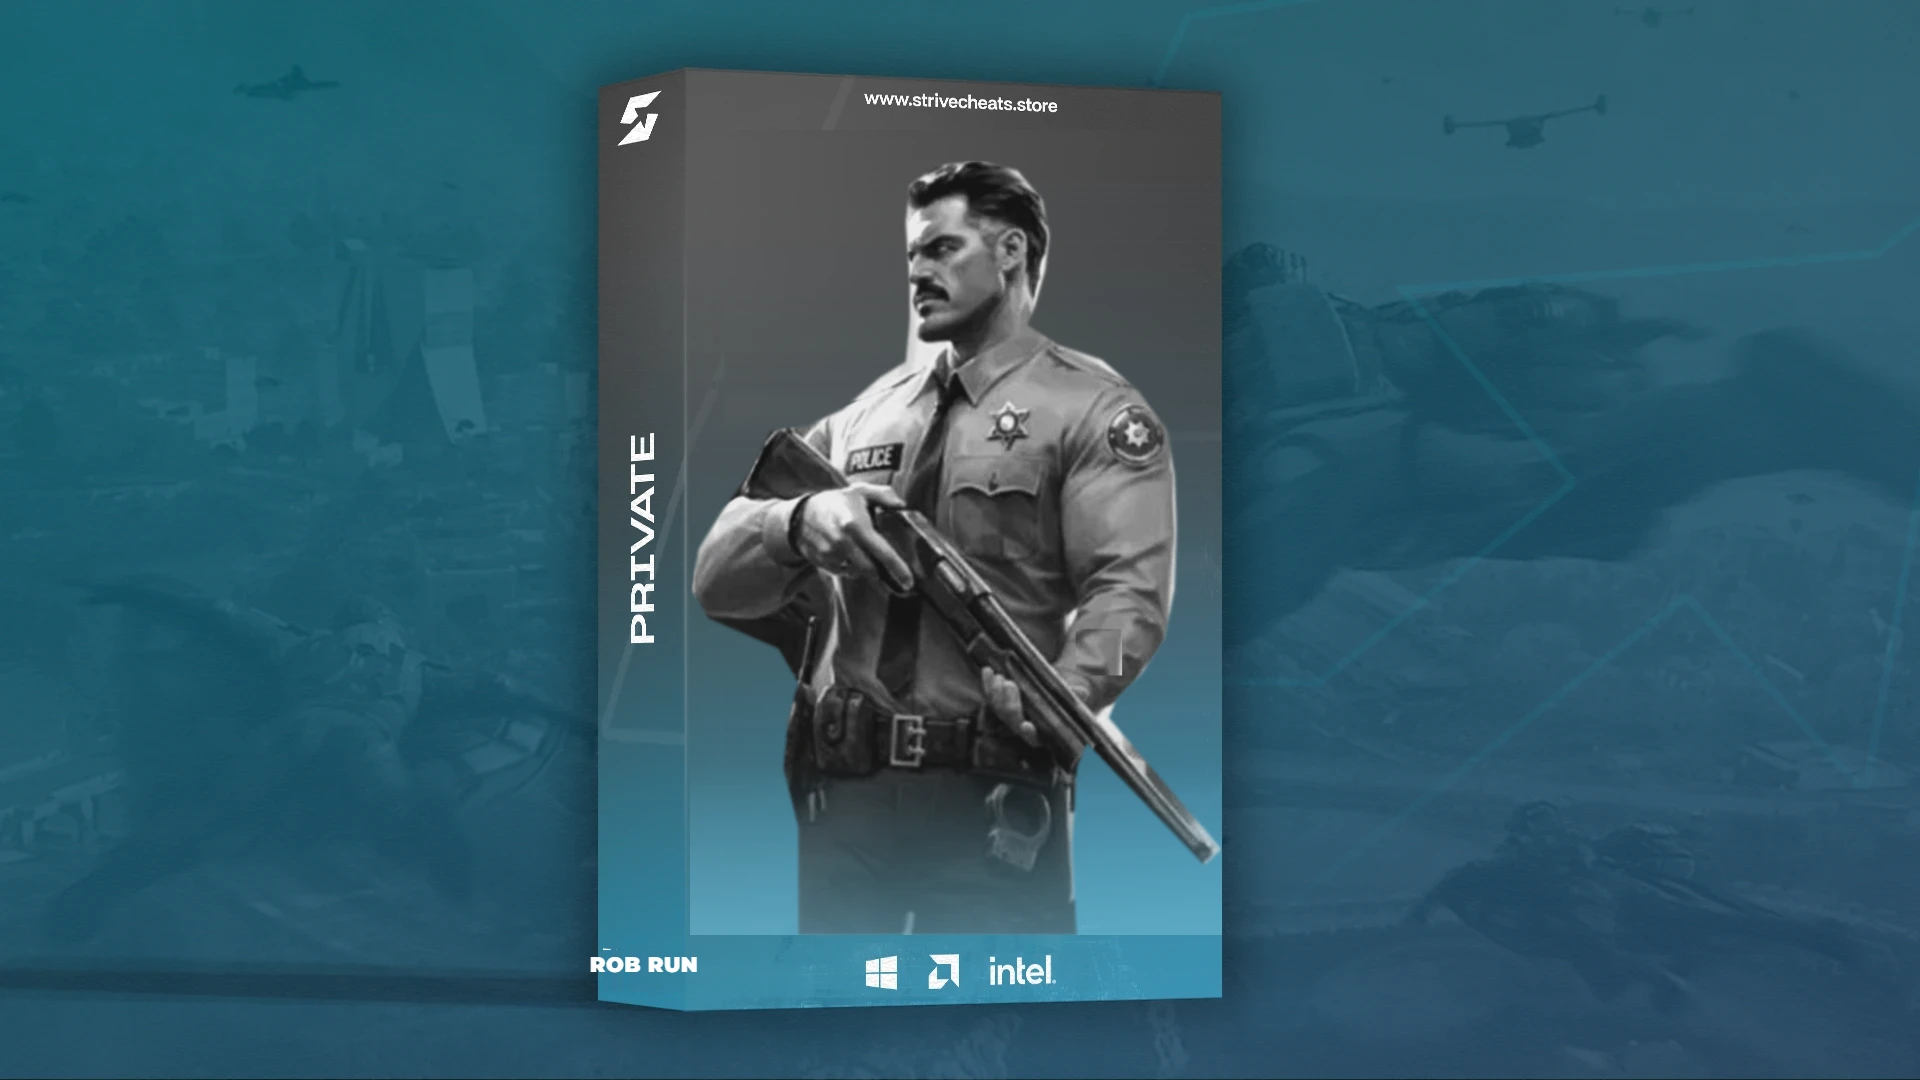
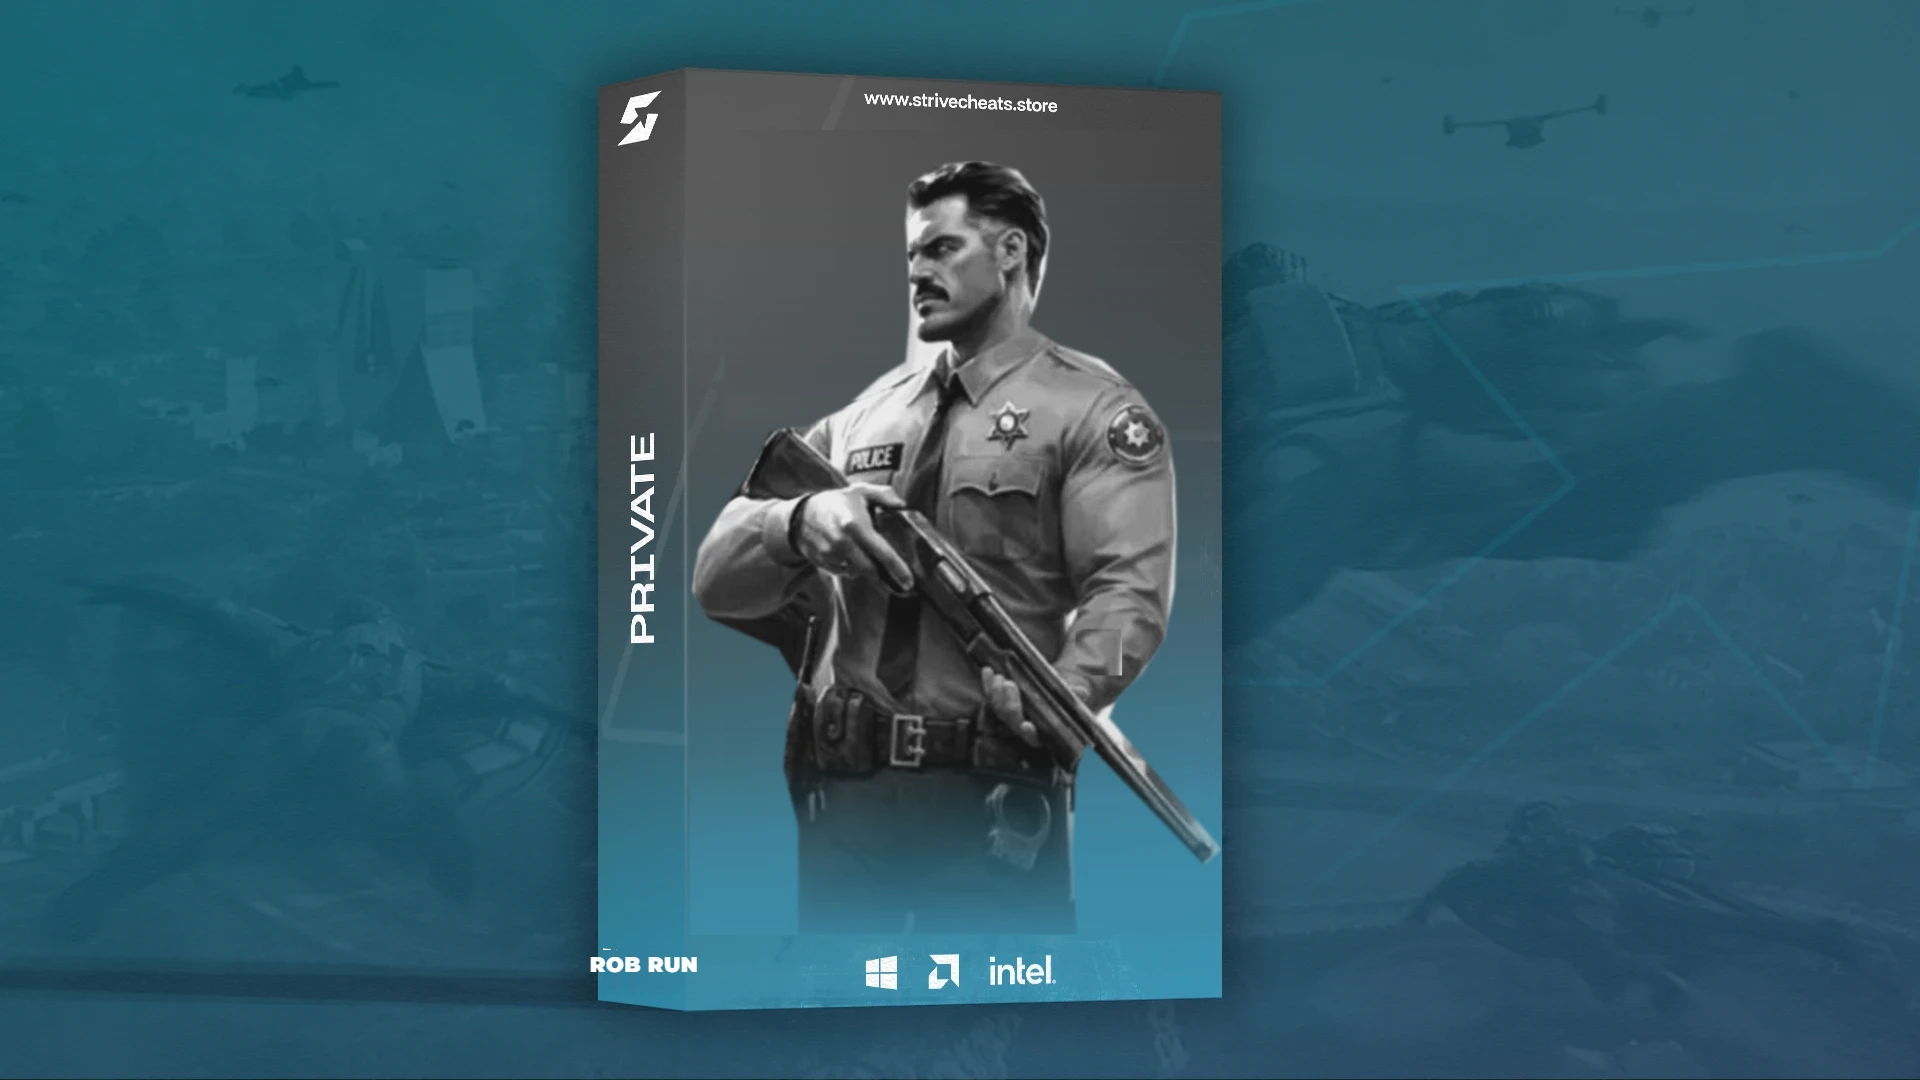
Chest Cheat/Rob Run boxes: match the Fortnite Private box colours; Chest 1 Day no longer sold out

diff --git a/local/boxmaker.html b/local/boxmaker.html
@@ -1,0 +1,116 @@
+<!DOCTYPE html>
+<html lang="en">
+<head>
+<meta charset="utf-8">
+<title>Product boxes for Chest Cheat and Rob Run</title>
+<link href="https://fonts.googleapis.com/css2?family=Montserrat:wght@600;800;900&display=swap" rel="stylesheet">
+<style>body { background: #111; color: #ddd; font: 13px system-ui; margin: 16px; } canvas { width: 49%; border-radius: 8px; } pre { margin: 0 0 10px; }</style>
+</head>
+<body>
+<pre id="log"></pre>
+<div id="out"></div>
+<script>
+/* Product box images (1920x1080, like img/box-*.webp): the game's art tinted in the site's steel blue behind, a retail box
+   with a dark-to-teal front, the Strive logo and website on top, the product's character in the middle, platform icons along
+   the bottom, "PRIVATE" on the spine. Chest Cheat = a Fortnite loot chest, Rob Run = the police officer from the game's key art.
+   /local/boxmaker.html previews, ?save=1 writes local/cards/box-chest-cheat.webp, box-rob-run.webp and bg-robrun.webp */
+const W = 1920, H = 1080;
+const load = src => new Promise((ok, no) => { const i = new Image(); i.onload = () => ok(i); i.onerror = () => no(new Error("load " + src)); i.src = src; });
+const mk = (w, h) => { const c = document.createElement("canvas"); c.width = w; c.height = h; return c; };
+const log = t => document.getElementById("log").textContent += t + "\n";
+const clamp = v => v < 0 ? 0 : v > 1 ? 1 : v;
+const lum = (d, i) => (.299 * d[i] + .587 * d[i + 1] + .114 * d[i + 2]) / 255;
+const RAMP = [[0, [10, 26, 34]], [.45, [34, 82, 102]], [.8, [70, 138, 164]], [1, [150, 205, 224]]];
+const ramp = t => { for (let k = 1; k < RAMP.length; k++) if (t <= RAMP[k][0]) { const [a, ca] = RAMP[k - 1], [b, cb] = RAMP[k], f = (t - a) / (b - a); return ca.map((v, j) => v + (cb[j] - v) * f); } return RAMP[RAMP.length - 1][1]; };
+
+// grey, contrasty version of a cut-out (transparent background), like the characters on the other boxes
+function greyscale(src, lo = 20, span = 215) {
+  const g = mk(src.width, src.height), gx = g.getContext("2d", { willReadFrequently: true }); gx.drawImage(src, 0, 0);
+  const id = gx.getImageData(0, 0, g.width, g.height), d = id.data, ls = [];
+  for (let i = 0; i < d.length; i += 16) if (d[i + 3] > 200) ls.push(lum(d, i));
+  ls.sort((a, b) => a - b); const a = ls[Math.floor(ls.length * .02)], b = ls[Math.floor(ls.length * .99)];
+  for (let i = 0; i < d.length; i += 4) { let v = clamp((lum(d, i) - a) / (b - a)); v = v * v * (3 - 2 * v) * .5 + v * .5; d[i] = d[i + 1] = d[i + 2] = Math.round(lo + v * span); }
+  gx.putImageData(id, 0, 0); return g;
+}
+// the police officer from the Rob Run key art (outline traced like in recolor.html)
+async function copCut() {
+  const im = await load("/local/src/dl-bg/robrun-key.webp");
+  const P = [[258, 92], [262, 55], [290, 35], [330, 30], [370, 40], [395, 70], [402, 105], [398, 140], [388, 175], [380, 195], [410, 215], [455, 230], [492, 262], [520, 300], [528, 345], [530, 400], [528, 460], [518, 510], [495, 545], [470, 570], [462, 590], [575, 722], [558, 738], [440, 615], [430, 640], [425, 720], [430, 812], [150, 812], [150, 700], [135, 640], [140, 590], [150, 555], [130, 520], [60, 490], [42, 460], [50, 420], [75, 380], [100, 345], [122, 302], [160, 296], [195, 280], [232, 248], [258, 232], [262, 190], [262, 150]].map(([sx, sy]) => [840 + sx / .974, 250 + sy / .974]);
+  const SX = 840, SY = 250, SW = 620, SH = 830, cut = mk(SW, SH), cx = cut.getContext("2d");
+  cx.drawImage(im, SX, SY, SW, SH, 0, 0, SW, SH); cx.drawImage(im, 1335, 688, 44, 44, 1280 - SX, 764 - SY, 48, 48);   // (paints the mouse cursor out of the art)
+  const m = mk(SW, SH), mx = m.getContext("2d"); mx.fillStyle = "#fff"; mx.beginPath(); P.forEach(([sx, sy], i) => { i ? mx.lineTo(sx - SX, sy - SY) : mx.moveTo(sx - SX, sy - SY); }); mx.closePath(); mx.fill();
+  const mb = mk(SW, SH), mbx = mb.getContext("2d"); mbx.filter = "blur(1.4px)"; mbx.drawImage(m, 0, 0);
+  cx.globalCompositeOperation = "destination-in"; cx.drawImage(mb, 0, 0);
+  // crop to the figure's box
+  const x0 = Math.min(...P.map(p => p[0])) - SX, x1 = Math.max(...P.map(p => p[0])) - SX, y0 = Math.min(...P.map(p => p[1])) - SY, y1 = SH;
+  const out = mk(Math.round(x1 - x0), Math.round(y1 - y0)); out.getContext("2d").drawImage(cut, x0, y0, out.width, out.height, 0, 0, out.width, out.height); return out;
+}
+async function chestCut() {
+  const img = await load("/local/src/dl-bg/chest-b.webp"), t = mk(img.naturalWidth, img.naturalHeight), tx = t.getContext("2d", { willReadFrequently: true }); tx.drawImage(img, 0, 0);
+  const td = tx.getImageData(0, 0, t.width, t.height).data; let x0 = t.width, x1 = 0, y0 = t.height, y1 = 0;
+  for (let y = 0; y < t.height; y++) for (let X = 0; X < t.width; X++) if (td[(y * t.width + X) * 4 + 3] > 40) { if (X < x0) x0 = X; if (X > x1) x1 = X; if (y < y0) y0 = y; if (y > y1) y1 = y; }
+  const out = mk(x1 - x0 + 1, y1 - y0 + 1); out.getContext("2d").drawImage(img, x0, y0, out.width, out.height, 0, 0, out.width, out.height); return out;
+}
+
+// The existing boxes all share one backdrop and one box frame, so the empty frame is the per-pixel median of them (the
+// characters differ box to box and drop out). Only the character, the label bottom-left and the ghost left on the front change.
+let TPL = null;
+async function template() {
+  if (TPL) return TPL;
+  const names = ["box-fortnite-private.webp", "box-fortnite-slotted.webp", "box-r6.webp", "box-rust.webp", "box-arc.webp", "box-roblox.webp", "box-temp.webp", "box-perm.webp", "box-retrac.webp", "box-fortnite-ai.png", "box-accounts.webp"];
+  const imgs = await Promise.all(names.map(n => load("/img/" + n)));
+  const datas = imgs.map(im => { const c = mk(W, H), x = c.getContext("2d", { willReadFrequently: true }); x.drawImage(im, 0, 0, W, H); return x.getImageData(0, 0, W, H).data; });
+  const out = mk(W, H), ox = out.getContext("2d", { willReadFrequently: true }), oi = ox.createImageData(W, H), v = new Array(datas.length);
+  for (let i = 0; i < oi.data.length; i += 4) { for (let k = 0; k < 3; k++) { for (let j = 0; j < datas.length; j++) v[j] = datas[j][i + k]; v.sort((a, b) => a - b); oi.data[i + k] = v[v.length >> 1]; } oi.data[i + 3] = 255; }
+  ox.putImageData(oi, 0, 0);
+  // the spine's "PRIVATE" is cleanest on the Fortnite Private box itself (same frame): copy the whole spine from it
+  ox.drawImage(imgs[0], 600, 0, 90, H, 600, 0, 90, H);
+  // front: clear the ghost with the frame's own vertical gradient (read from clean strips at both edges of the front), keeping the
+  // website text on top and the platform icons at the bottom
+  const FX0 = 724, FX1 = 1200, id = ox.getImageData(0, 0, W, H), d = id.data;
+  // the edge strips come from the Fortnite Private box itself (its colours are the reference; the median is lightened by the other boxes' glow)
+  const fd = datas[0];
+  const strip = (y, xa, xb) => { let r = 0, g = 0, b = 0, n = 0; for (let X = xa; X < xb; X++) { const i = (y * W + X) * 4; r += fd[i]; g += fd[i + 1]; b += fd[i + 2]; n++; } return [r / n, g / n, b / n]; };
+  const rows = []; for (let y = 0; y < H; y++) rows[y] = [strip(y, 1206, 1218), strip(y, 698, 714)];
+  for (let y = 130; y < 925; y++) for (let X = FX0; X < FX1; X++) { const i = (y * W + X) * 4, f = (X - FX0) / (FX1 - FX0), a = rows[y][1], b = rows[y][0]; for (let k = 0; k < 3; k++) d[i + k] = a[k] + (b[k] - a[k]) * f; }
+  ox.putImageData(id, 0, 0);
+  // the product label on the bottom of the spine ("FORTNITE", "RETRAC"... on the other boxes): clear it by stretching the clean
+  // spine pixels just above it down over it; my own label is drawn on later
+  const sp = ox.getImageData(603, 946, 82, 1); for (let y = 950; y < 992; y++) ox.putImageData(sp, 603, y);
+  TPL = out; return out;
+}
+async function makeBox(j) {
+  const tpl = await template(), c = mk(W, H), x = c.getContext("2d"); x.drawImage(tpl, 0, 0);
+  // the character, grey with the boxes' contrast, inside the front (x 690..1222, y 135..935)
+  x.save(); x.beginPath(); x.rect(690, 135, 532, 800); x.clip();
+  const sub = await j.subject(), g = greyscale(sub), sc = Math.min(j.maxW / g.width, j.maxH / g.height), dw = g.width * sc, dh = g.height * sc, px = 956 - dw / 2 + (j.dx || 0), py = j.bottom ? 935 - dh : 535 - dh / 2 + (j.dy || 0);
+  if (!j.bottom) { x.save(); x.filter = "blur(18px)"; x.fillStyle = "rgba(30,50,60,.55)"; x.beginPath(); x.ellipse(px + dw / 2, py + dh + 6, dw * .45, 22, 0, 0, Math.PI * 2); x.fill(); x.restore(); }
+  x.drawImage(g, px, py, dw, dh);
+  // soft fog where the character meets the bottom of the front (like the other boxes)
+  const fg = x.createLinearGradient(0, 760, 0, 935); fg.addColorStop(0, "rgba(61,138,166,0)"); fg.addColorStop(1, "rgba(61,139,168,.9)"); x.fillStyle = fg; x.fillRect(690, 760, 532, 175);
+  x.restore();
+  // label bottom-left, like "FORTNITE" / "RETRAC" on the others
+  x.fillStyle = "#fff"; x.textAlign = "center"; x.textBaseline = "alphabetic"; x.letterSpacing = "0.5px";
+  const lines = j.tag.split("|"); x.font = "900 " + (lines.length > 1 ? 17 : 21) + "px Montserrat";
+  lines.forEach((ln, i) => x.fillText(ln, 644, (lines.length > 1 ? 966 : 972) + i * 19));   // centred on the spine, near its bottom
+  return c;
+}const JOBS = [
+  { out: "box-chest-cheat.webp", art: "/local/cards/bg-fortnite.webp", spine: "PRIVATE", tag: "CHEST|CHEAT", subject: chestCut, maxW: 500, maxH: 420, dy: 10 },
+  { out: "box-rob-run.webp", art: "/local/src/dl-bg/robrun-shot2.jpg", spine: "PRIVATE", tag: "ROB RUN", subject: copCut, maxW: 530, maxH: 800, bottom: true }
+];
+(async () => {
+  try {
+    await document.fonts.load("800 50px Montserrat"); await document.fonts.load("900 24px Montserrat"); await document.fonts.load("600 22px Montserrat");
+    const save = new URLSearchParams(location.search).has("save");
+    for (const j of JOBS) {
+      const c = await makeBox(j); document.getElementById("out").appendChild(c);
+      if (save) { const b = await new Promise(r => c.toBlob(r, "image/webp", .9)); log(await (await fetch("/__save/" + j.out, { method: "PUT", body: b })).text()); }
+    }
+    // background for the Rob Run pages: the jewelry-store screenshot, cropped to the middle (no game HUD) and darkened
+    if (save) { const im = await load("/local/src/dl-bg/robrun-shot1.jpg"), c = mk(1920, 1080), cx = c.getContext("2d"); cx.drawImage(im, 330, 190, 1260, 708, 0, 0, 1920, 1080); cx.fillStyle = "rgba(6,10,14,.45)"; cx.fillRect(0, 0, 1920, 1080); const b = await new Promise(r => c.toBlob(r, "image/webp", .8)); log(await (await fetch("/__save/bg-robrun.webp", { method: "PUT", body: b })).text()); }
+    log(save ? "saved" : "preview (add ?save=1 to save)");
+  } catch (e) { log("ERROR " + e.message); console.error(e); }
+})();
+</script>
+</body>
+</html>

diff --git a/local/nx-products.js b/local/nx-products.js
@@ -18,7 +18,7 @@
       slotNote: "Chest Cheat is only available for a limited time.",
       groups: [["Chest Cheat", ["Made for Fortnite", "Available for a limited time only", "Delivered through our Discord", "Same Discord support as every Strive product"]]],
       os: "Windows 10/11",
-      plans: [{ n: "1 Day", p: 9.99, v: null, sold: true }, { n: "7 Days", p: 59.99, v: null, pop: true }, { n: "30 Days", p: 144.99, v: null }]
+      plans: [{ n: "1 Day", p: 9.99, v: null }, { n: "7 Days", p: 59.99, v: null, pop: true }, { n: "30 Days", p: 144.99, v: null }]
     },
     {
       slug: "rob-run", name: "Rob Run", type: "Private", game: "Rob Run", img: "/local/cards/box-rob-run.webp", ticketOnly: true,
